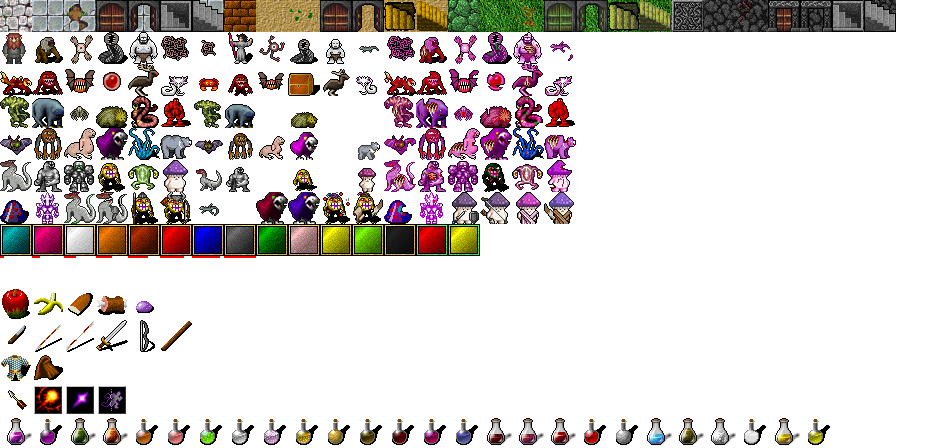
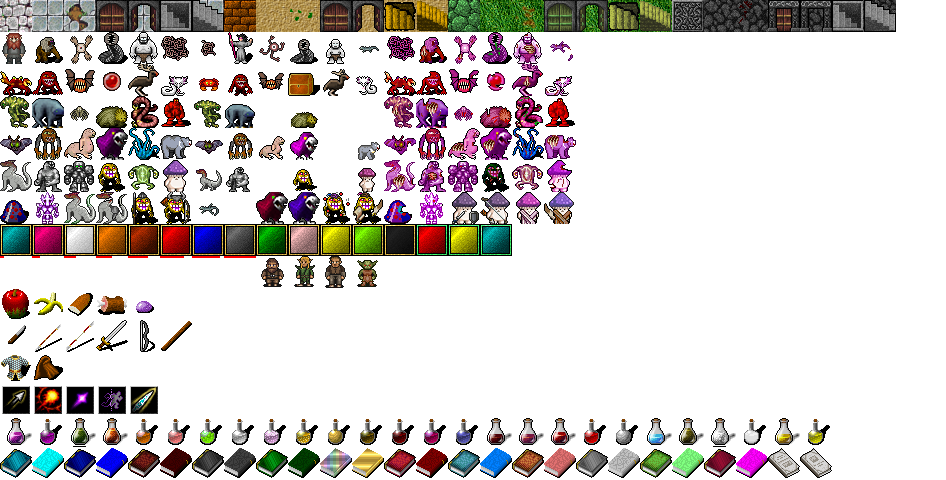
add books and random symbol

Changed region(s): [[0.0, 0.0, 0.9503, 1.0]]

diff --git a/assets/item.js b/assets/item.js
@@ -32,6 +32,11 @@ Item.prototype.isWielded = function() {
       return 1;
     }
   }
+  if (typeof Game.player.books !== 'undefined') {
+    for (let i = 0; i < Game.player.books.length; i++) {
+      if (Game.player.books[i] == this) {return 1;}
+    }
+  }
   return 0;
 }
 
@@ -66,7 +71,7 @@ Game.chooseItem = function(num) {
   if (itemtype == "potion") {
     Game.messages.drawText(1, iterator + 2, "e) Drink");
   }
-  if (itemtype == "weapon" || itemtype == "armor" || itemtype == "amulet") {
+  if (itemtype == "weapon" || itemtype == "armor" || itemtype == "amulet"|| itemtype == "book") {
     if (Game.inventory[num].isWielded() == 0) {
       Game.messages.drawText(1, iterator + 2, "w) Wield");
     } else {
@@ -82,7 +87,7 @@ Game.doItem = function(action) {
   var num = mode.chosenitem;
   var itemtype = Game.inventory[num].type;
   if (action == "wield") {
-    if (itemtype != "weapon" && itemtype != "armor" && itemtype != "amulet") {
+    if (itemtype != "weapon" && itemtype != "armor" && itemtype != "amulet"&& itemtype != "book") {
       Game.messagebox.sendMessage("You cant do this.");
       return;
     }
@@ -115,6 +120,10 @@ Game.doItem = function(action) {
         Game.messagebox.sendMessage("You already have armor.");
         return;
       }
+    } else if (Game.inventory[num].isWielded() == 0 && itemtype == "book") {
+      Game.player.books.push(Game.inventory[num]);
+      Game.doItemOptions();
+      Game.messagebox.sendMessage("You wielded the " + Game.inventory[num].name + ".");
     } else {
       if (Game.player.equipment.righthand == Game.inventory[num]) {
         delete Game.player.equipment.righthand;
@@ -123,13 +132,18 @@ Game.doItem = function(action) {
       } else if (Game.player.equipment.body == Game.inventory[num]) {
         delete Game.player.equipment.body;
       }
+      if (typeof Game.player.books !== 'undefined') {
+        for (let i = 0; i < Game.player.books.length; i++) {
+          if (Game.player.books[i] == Game.inventory[num]) {Game.player.books.splice(i,1);}
+        }
+      }
       Game.doItemOptions();
       Game.messagebox.sendMessage("You unwielded the " + Game.inventory[num].name + ".");
     }    console.log(itemtype);
 
   }
   if (action == "drop") {
-    if (itemtype == "weapon" || itemtype == "armor" || itemtype == "amulet") {
+    if (itemtype == "weapon" || itemtype == "armor" || itemtype == "amulet"|| itemtype == "book") {
       if (Game.inventory[num].isWielded() == 1) {
         //unwield item
         Game.doItem("wield");
@@ -324,6 +338,13 @@ Game.drawBar = function() {
           _color = "yellow";
         } else {
           _color = "yellowwield";
+        }
+      }
+      if (itemtype == "book") {
+        if (Game.inventory[i].isWielded() == 0) {
+          _color = "cyan";
+        } else {
+          _color = "cyanwield";
         }
       }
       Game.display.draw(i + Game.screenWidth - 16, Game.screenHeight, [_color + "square", Game.inventory[i].Symbol], ["#0000", "#0000"]);

diff --git a/assets/tilemap.js b/assets/tilemap.js
@@ -32,6 +32,10 @@ var gameTilemap = {
   "oldmazestairup": [864, 0],
 //entities
   "@": [0, 32],
+  "dwarf": [256,256],
+  "elf": [288,256],
+  "human": [320,256],
+  "goblin": [352,256],
   "hp1": [0,256],
   "hp2": [32,256],
   "hp3": [64,256],
@@ -57,6 +61,8 @@ var gameTilemap = {
   "greensquare": [352,224],
   "yellowsquare": [320,224],
   "yellowwieldsquare": [448,224],
+  "cyansquare": [0,224],
+  "cyanwieldsquare": [480,224],
 //food
   "apple": [0,288],
   "banana": [32,288],
@@ -89,7 +95,34 @@ var gameTilemap = {
   "potion23": [704,416],
   "potion24": [736,416],
   "potion25": [768,416],  
-  "potion26": [800,416],  
+  "potion26": [800,416],
+//books
+"book1": [0,448],
+"book2": [32,448],
+"book3": [64,448],
+"book4": [96,448],
+"book5": [128,448],
+"book6": [160,448],
+"book7": [192,448],
+"book8": [224,448],
+"book9": [256,448],
+"book10": [288,448],
+"book11": [320,448],
+"book12": [352,448],
+"book13": [384,448],
+"book14": [416,448],
+"book15": [448,448],
+"book16": [480,448],
+"book17": [512,448],
+"book18": [544,448],
+"book19": [576,448],
+"book20": [608,448],
+"book21": [640,448],
+"book22": [672,448],  
+"book23": [704,448],
+"book24": [736,448],
+"book25": [768,448],  
+"book26": [800,448],
 //weapon
   "knife": [0,320],
   "spear": [32,320],
@@ -102,6 +135,7 @@ var gameTilemap = {
   "fireball": [32,384],
   "magicdart": [64,384],
   "blink": [96,384],
+  "slash": [128,384],
 //armor
   "simplecloak": [32,352],
   "chainmail": [0,352]

diff --git a/assets/skill.js b/assets/skill.js
@@ -56,7 +56,7 @@ Game.useSkill = function(actor, skill, skillx, skilly) {
       result = Math.floor(Math.random() * skill.level * (skill.formulas.maxdmglvl - skill.formulas.mindmglvl)) + skill.formulas.mindmglvl * skill.level;
       result = result + Math.floor(Math.random() * (skill.formulas.maxdmg - skill.formulas.mindmg)) + skill.formulas.mindmg;
       if (typeof skill.formulas.withweapon !== 'undefined') {
-        result = result + Math.floor(Math.random() * skill.formulas.withweapon * (actor.Maxatk - actor.Minatk)) + skill.formulas.withweapon * actor.Minatk;
+        result = result + Math.floor(Math.random() * skill.formulas.withweapon * (actor.Maxatk - actor.Minatk)) + Math.floor(skill.formulas.withweapon * actor.Minatk);
       }
       var _color = "%c{}";
       var _crit = 0;
@@ -155,7 +155,7 @@ Game.setSkillXY = function() {
 Game.generateSkillMap = function() {
   mode.skillmap = {};
   var level = Game.player.Depth;
-  fov.compute(Game.player.x, Game.player.y, Game.skills[mode.chosenskill].options.range, function(x, y, r, visibility) {
+  fov.compute(Game.player.x, Game.player.y, Math.min(Game.skills[mode.chosenskill].options.range,Game.player.Vision), function(x, y, r, visibility) {
     mode.skillmap[x + "," + y] = 1;
   });
 }

diff --git a/assets/items.js b/assets/items.js
@@ -104,6 +104,9 @@ Game.ItemRepository.define('longsword', {
     str: 2,
     con: 2,
     agi: -1
+  },
+  skills: {
+    Slash: 2
   }
 });
 
@@ -137,7 +140,6 @@ Game.ItemRepository.define('staffofapprentice', {
   skills: {
     Fireball: 1,
     Magicdart: 2,
-    Blink: 1
   }
 });
 //armor
@@ -238,5 +240,27 @@ Game.ItemRepository.define('mediumconpotion', {
   type: "potion",
   options: {
     con: 3
+  }
+});
+
+//books
+Game.ItemRepository.define('bookofnovicewarrior', {
+  name: "book of novice warrior",
+  Symbol: "book"+(Math.floor(Math.random()*25)+1),
+  level: 1,
+  type: "book",
+  skills: {
+    Slash: 1
+  }
+});
+
+Game.ItemRepository.define('bookofnovicemage', {
+  name: "book of novice wizard",
+  Symbol: "book"+(Math.floor(Math.random()*25)+1),
+  level: 1,
+  type: "book",
+  skills: {
+    Fireball: 1,
+    Magicdart: 1,
   }
 });

diff --git a/assets/skills.js b/assets/skills.js
@@ -10,7 +10,7 @@ Game.SkillRepository.define('Shoot('+i+')', {
   type: "skill",
   subtype: "damage",
   options: {
-    cost: 1 + i,
+    cost: 2 + 2*i,
     description: "You shoot the target "+i+" - "+i*4+" dmg.",
     stat: "agi",
     range: 2+i,
@@ -22,6 +22,29 @@ Game.SkillRepository.define('Shoot('+i+')', {
     mindmglvl: 1,
     maxdmglvl: 4,
     withweapon: 1
+  }
+});
+
+Game.SkillRepository.define('Slash('+i+')', {
+  level: i,
+  name: "Slash",
+  Symbol: "slash",
+  target: "range",
+  type: "skill",
+  subtype: "damage",
+  options: {
+    cost: 3 + 2*i,
+    description: "You slash the target "+i+" - "+i*4+" dmg.",
+    stat: "str",
+    range: 1,
+    radius: 0
+  },
+  formulas: {
+    mindmg: 0,
+    maxdmg: 0,
+    mindmglvl: 1,
+    maxdmglvl: 8,
+    withweapon: 1 + i/2
   }
 });
 //magic

diff --git a/assets/index.js b/assets/index.js
@@ -59,7 +59,8 @@ var Game = {
     this.player = new Player({
       Name: "player",
       x: freeplace[0],
-      y: freeplace[1]
+      y: freeplace[1],
+      Symbol: ROT.RNG.getItem(["dwarf","human","elf"])
     });
     this.hpregen = new Hpregen();
     this.manaregen = new Manaregen();
@@ -71,6 +72,8 @@ var Game = {
       newitem = Game.ItemRepository.createRandom(1,1);
       Game.inventory.push(newitem);
     }
+    newitem = Game.ItemRepository.create("longsword");
+    Game.inventory.push(newitem);
     this.drawAll();
     this.engine = new ROT.Engine(scheduler);
     this.engine.start();

diff --git a/assets/entity.js b/assets/entity.js
@@ -229,10 +229,11 @@ Player = function(properties) {
   this.Mana = this.Maxmana;
   this.name = Game.namegen();
   this.Vision = properties['Vision'] || 5;
-  this.Symbol = '@';
+  this.Symbol = properties['Symbol'] ||'human';
   this.Hunger = this.Con * 50;
   this.equipment = {};
   this.affects = {};
+  this.books = [];
   this.getSpeed = function() {
     return this.Speed;
   }

diff --git a/CHANGELOG.md b/CHANGELOG.md
@@ -2,3 +2,5 @@
 
 Start changelog. Add some potions to increase stats - basis of progression.
 Game is primitive, but playable.
+
+Add first novice books. Random player symbol on start.
